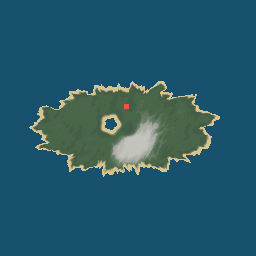
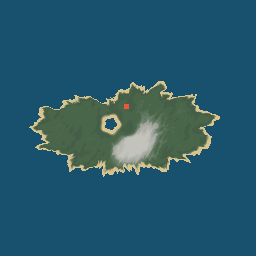
Add deterministic coastal landmarks with save compatibility

Changed region(s): [[0.2188, 0.3125, 0.5, 0.4375], [0.5, 0.3125, 0.5312, 0.3438], [0.1562, 0.4062, 0.1875, 0.4375]]

diff --git a/docs/diagnostics/coastal_landmarks.md b/docs/diagnostics/coastal_landmarks.md
@@ -1,0 +1,15 @@
+# Coastal landmarks checkpoint
+
+Version 2 worlds created after this change plan natural coastal landmarks with a dedicated seed stream. The starting island has a sheltered bay, the first outer island has a rocky headland aligned with one of its highlands, and other islands may receive either type. The bay pulls the shoreline inward; the headland pushes it outward and raises a short coastal cliff. Terrain mesh, collision, biome sampling, caves and resource placement all use the resulting geography.
+
+The `generation_config.coastal_landmarks_enabled` save field records whether a world uses the new coastline. New worlds set it to `true`. Existing version 2 saves without the field load with it set to `false`, preserving their previous geography for the same seed; version 1 continues through its original generator. The smoke tests check both fingerprints and a save round trip.
+
+The following top-down maps were generated by `tools/render_world_generation_maps.gd`. They visualize sampled terrain colors and heights, not an in-game 3D camera view. The red square marks a cave mouth.
+
+| Seed | Starting island and bay | First outer island and headland |
+| --- | --- | --- |
+| 12345 | ![Starting island, seed 12345](seed_12345.png) | ![Rocky headland, seed 12345](headland_12345.png) |
+| 67890 | ![Starting island, seed 67890](seed_67890.png) | ![Rocky headland, seed 67890](headland_67890.png) |
+| 424242 | ![Starting island, seed 424242](seed_424242.png) | ![Rocky headland, seed 424242](headland_424242.png) |
+
+Three fresh Godot 4.3 headless processes measured seed `12345` with async generation after this change: initial load was 819, 825 and 827 ms, versus 795, 795 and 794 ms at the preceding collision checkpoint. The largest observed process-frame intervals were 30.0, 29.8 and 29.8 ms; the preceding checkpoint measured 29.9, 29.9 and 29.3 ms. The added geography increases worker sampling time without materially changing the measured main-thread spike. Graphical appearance, navigation across the new coastline, FPS and draw calls remain for final validation.
